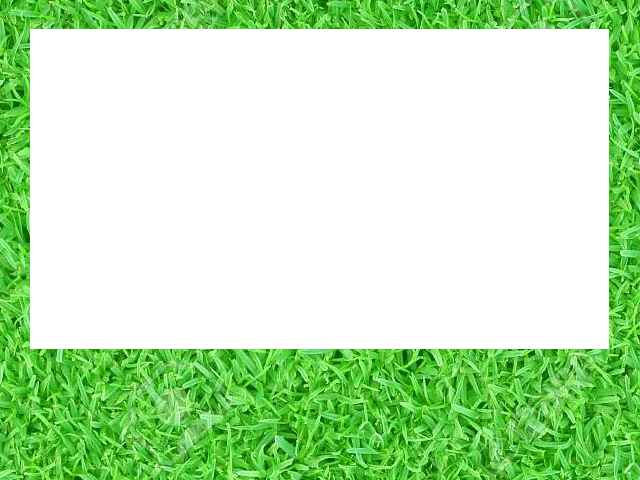
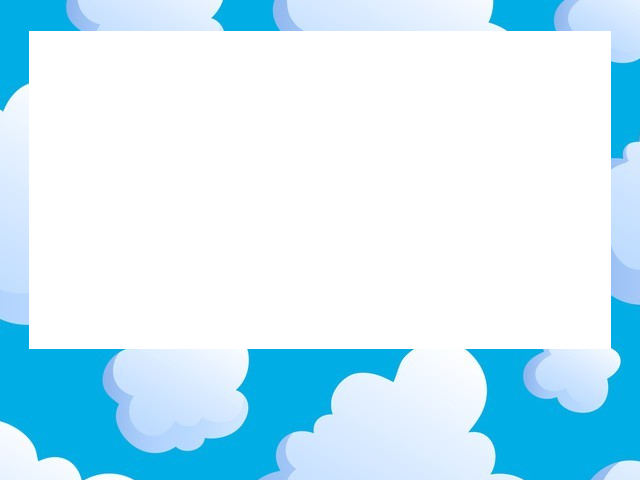
definizione sfondo hudPanel

diff --git a/src/view/HUDPanel.java b/src/view/HUDPanel.java
@@ -22,28 +22,29 @@ public class HUDPanel extends JPanel {
         this.count = new JLabel();
         this.count.setBounds(30, 370, 200, 50);
         this.count.setFont(new Font ("The Bomb", Font.BOLD, 13) );
-        this.count.setForeground(Color.WHITE);
+        this.count.setForeground(Color.BLACK);
         this.add(this.count);
         this.timer = new JLabel();
         this.timer.setBounds(511, 370, 200, 50);
         this.timer.setFont(new Font ("The Bomb", Font.BOLD, 13) );
-        this.timer.setForeground(Color.WHITE);
+        this.timer.setForeground(Color.BLACK);
         this.add(this.timer);
         this.gameOver = new JLabel("GAME OVER");
-        this.gameOver.setBounds(293, 400, 200, 50);
+        this.gameOver.setBounds(225, 420, 200, 50);
         this.gameOver.setVisible(false);
         this.gameOver.setForeground(Color.RED);
+        this.gameOver.setFont(new Font ("The Bomb", Font.BOLD, 20) );
         this.add(this.gameOver);
         this.victory = new JLabel("YOU WIN");
         this.victory.setBounds(240, 420, 200, 50);
         this.victory.setVisible(false);
-        this.victory.setForeground(Color.WHITE);
+        this.victory.setForeground(Color.GREEN);
         this.victory.setFont(new Font ("The Bomb", Font.BOLD, 20) );
         this.add(this.victory);
         this.level = new JLabel("Level: "+ level);
         this.level.setBounds(300, -10, 200, 50);
         this.level.setFont(new Font ("The Bomb", Font.BOLD, 10) );
-        this.level.setForeground(Color.WHITE);
+        this.level.setForeground(Color.BLACK);
         this.add(this.level);
 
 
@@ -99,7 +100,7 @@ public class HUDPanel extends JPanel {
         this.highScore = new JLabel("Highscore: "+ highScore);
         this.highScore.setBounds(258, 370, 200, 50);
         this.highScore.setFont(new Font ("The Bomb", Font.BOLD, 13) );
-        this.highScore.setForeground(Color.WHITE);
+        this.highScore.setForeground(Color.BLACK);
         this.add(this.highScore);
     }
 

diff --git a/src/view/GamePanel.java b/src/view/GamePanel.java
@@ -22,6 +22,8 @@ public class GamePanel extends JPanel {
         this.mainView = mainView;
         this.setBounds(0, 0, Constants.BOARD_WIDTH, Constants.BOARD_HEIGHT);
         this.setLayout(null);
+        Color verde= new Color(117, 201, 231, 255);
+        this.setBackground(verde);
         this.bugs = new ArrayList<>();
         this.addMouseListener(new MouseAdapter() {
             public void mousePressed(MouseEvent me){
